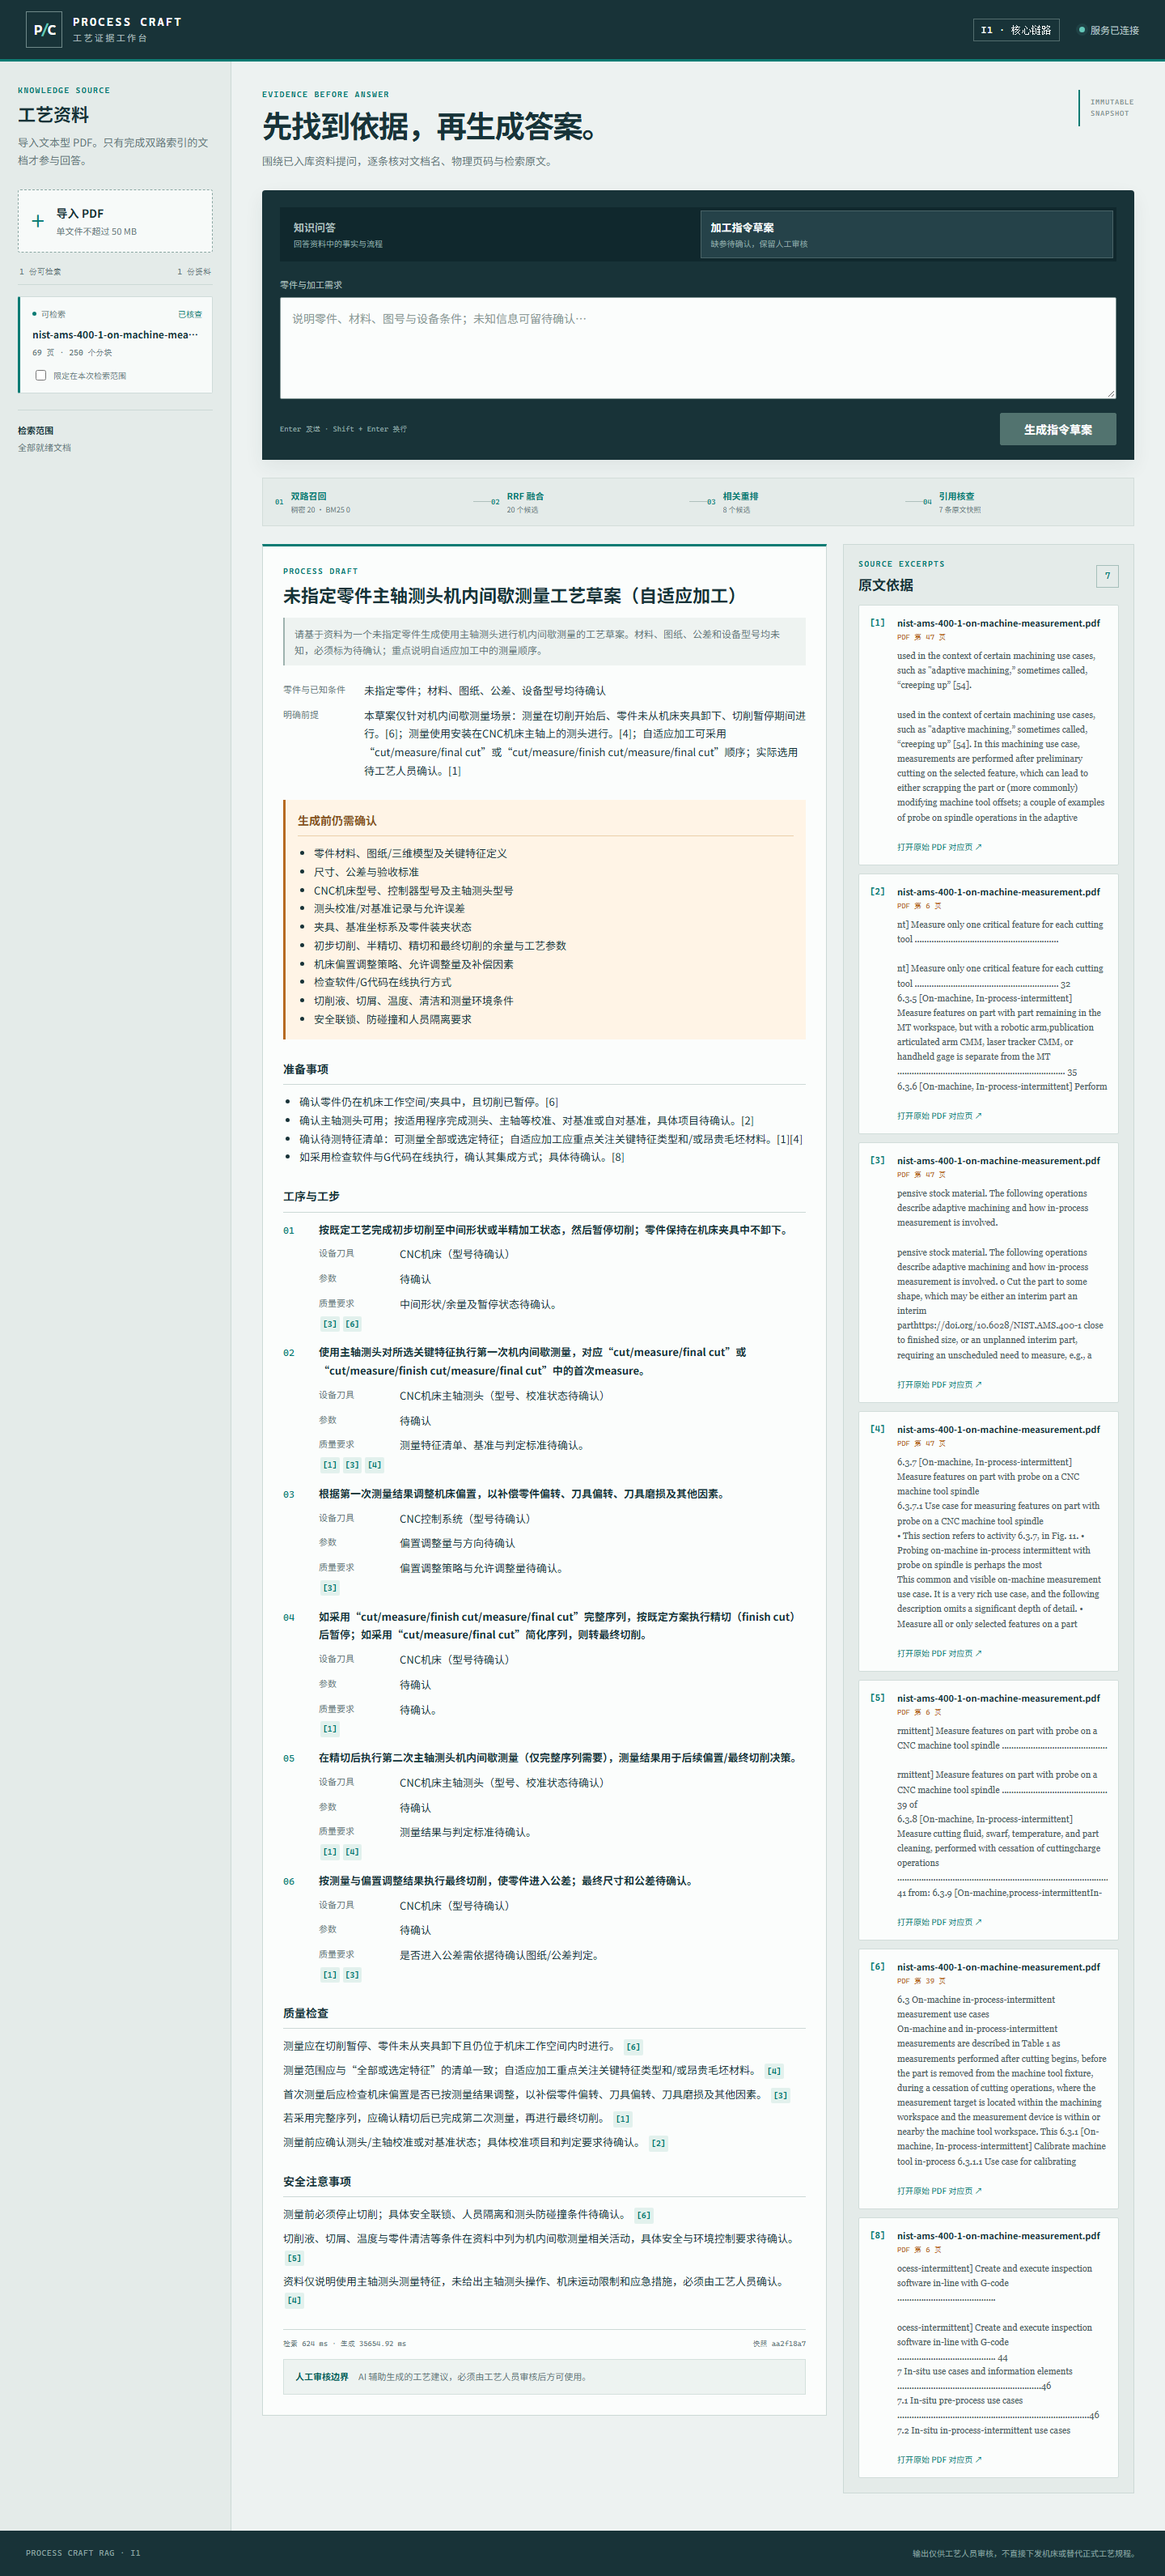
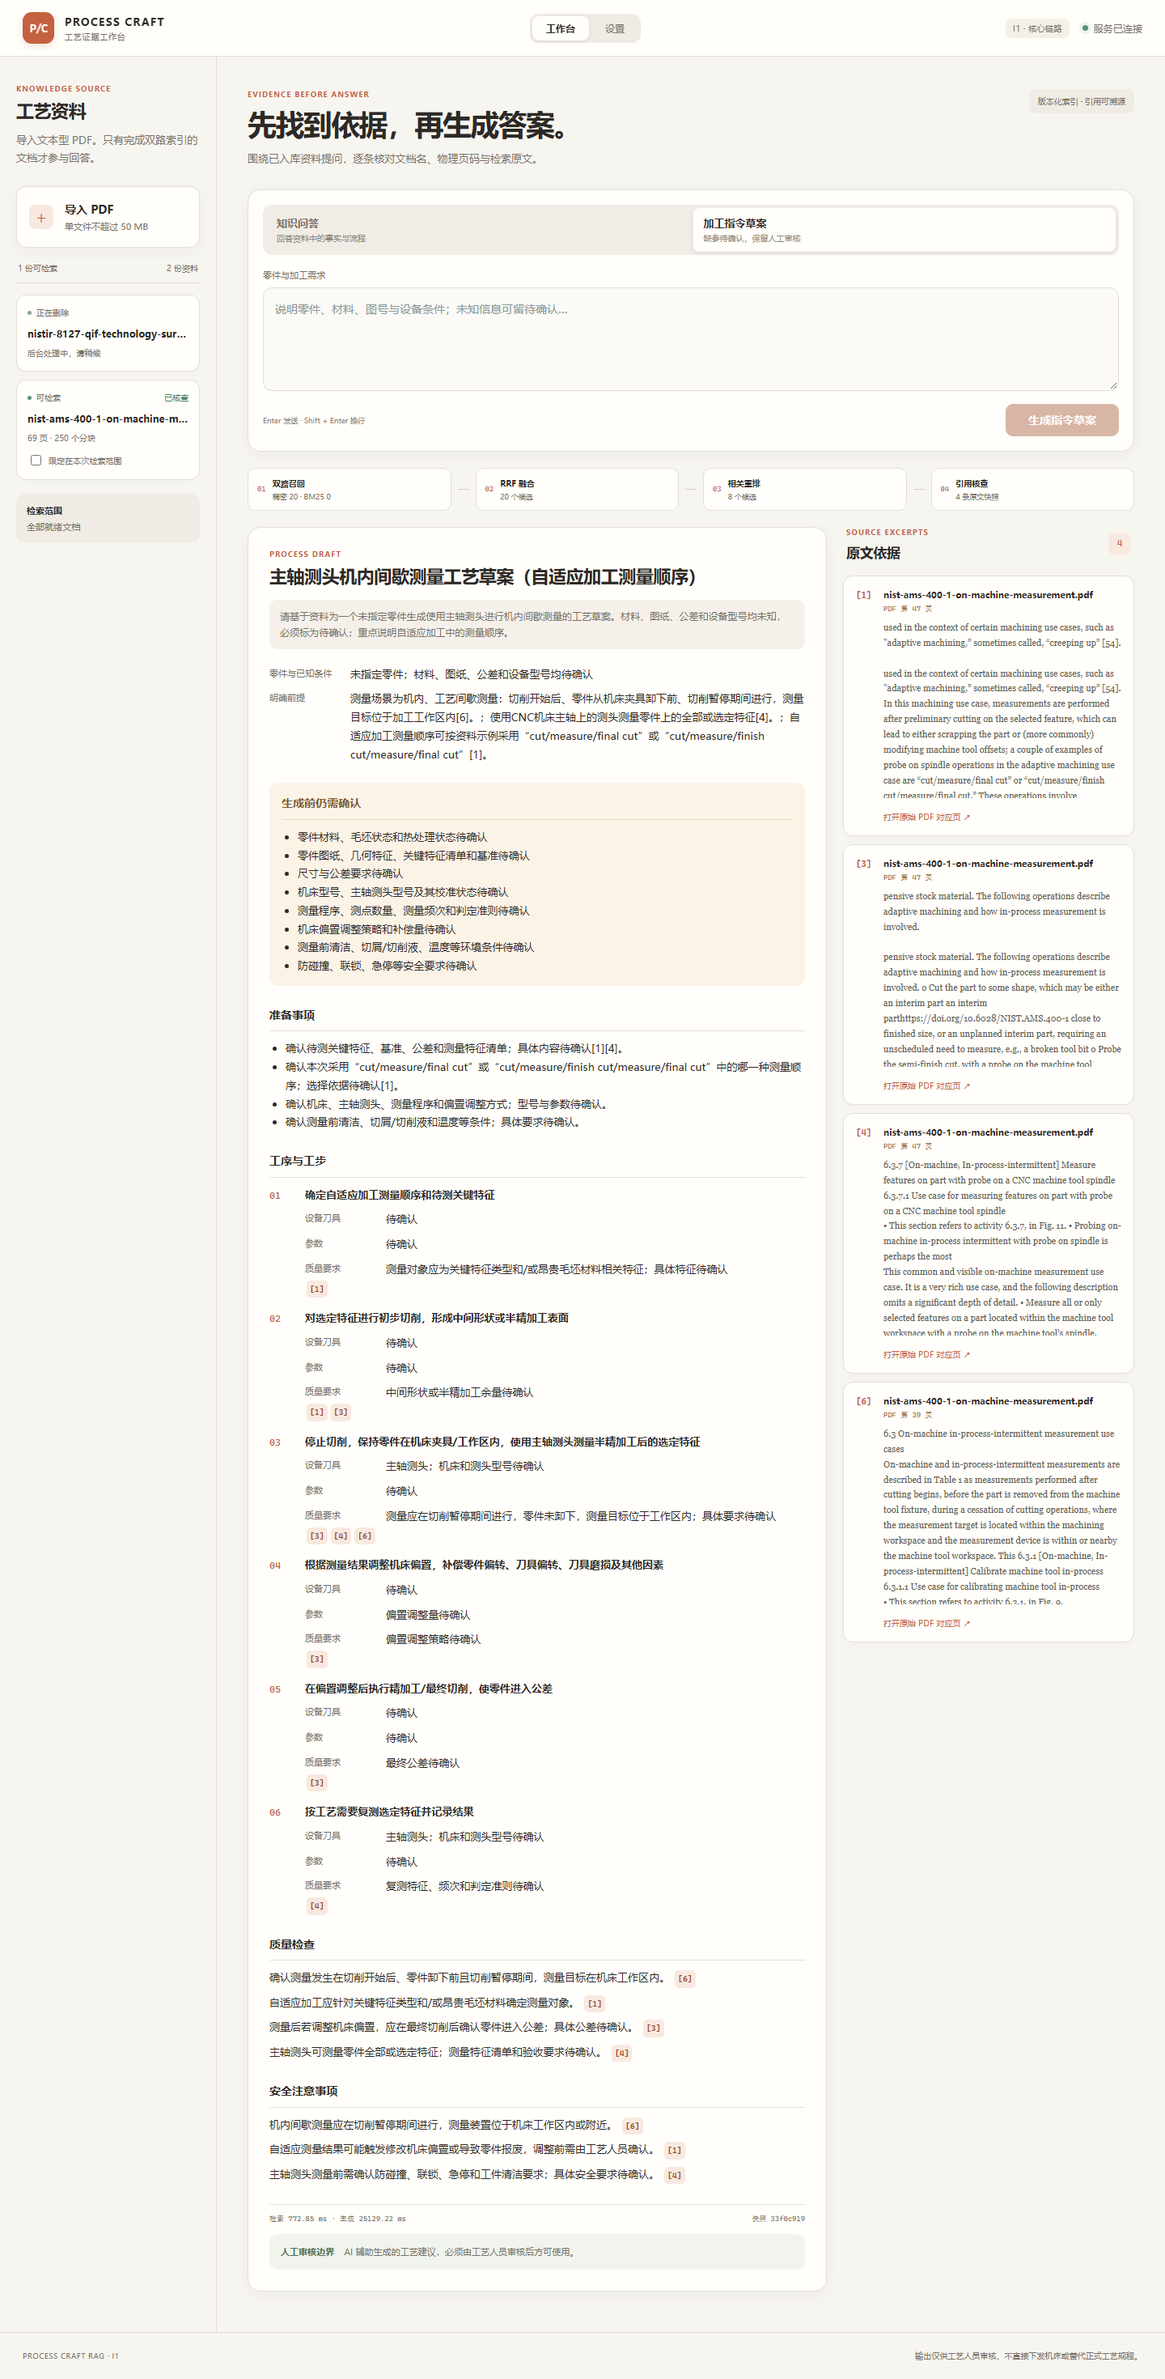
docs(i1): 更新 Docker 验收截图与连接状态

Changed region(s): [[0.0, 0.0, 1.0, 1.0], [0.5625, 0.5573, 0.5938, 0.5883]]

diff --git a/docs/README.md b/docs/README.md
@@ -4,7 +4,7 @@
 
 > **I1 实施状态（2026-11-22）**：单文档真实 RAG 闭环和最小前端已实现。A4 69 页生成 250 个分块，SQLite、Qdrant 与 BM25 的 chunk ID 完全一致；21 项自动化测试、8 道真实模型题及浏览器问答/草案验收已执行。冻结题集有效回答基线为 5/8，18 条引用全部可定位，但多要点检索和草案引用精确性仍需改进。详见 [I1 验收报告](./评估记录/I1/验收报告.md)。
 >
-> **交互完善补充**：前端已改为暖色、柔和的现代化工作台，新增模型/RAG 设置页、真实连接测试及失败文档重试/删除。设置密钥只写并保存在 Git 忽略的服务端运行时目录。补充验证为 26 项自动化测试通过，嵌入与重排连接成功；当前 DeepSeek 密钥被上游返回 401，需要在设置页更新，不影响已冻结的历史 I1 结果。证据见[现代工作台](./评估记录/I1/界面-现代工作台.png)、[设置页](./评估记录/I1/界面-设置.png)和[失败操作](./评估记录/I1/界面-失败操作.png)。
+> **交互完善补充**：前端已改为暖色、柔和的现代化工作台，新增模型/RAG 设置页、真实连接测试及失败文档重试/删除。设置密钥只写并保存在 Git 忽略的服务端运行时目录。补充验证为 26 项自动化测试通过。早期曾遇到 DeepSeek 上游 401；更换有效密钥后，2026-11-22 本地 Docker 复验的 DeepSeek、嵌入与重排真实连接均成功，全部界面截图已据此更新，不影响已冻结的历史 I1 结果。证据见[现代工作台](./评估记录/I1/界面-现代工作台.png)、[设置页](./评估记录/I1/界面-设置.png)和[失败操作](./评估记录/I1/界面-失败操作.png)。
 
 ## 1. 项目定位与需求基线
 
